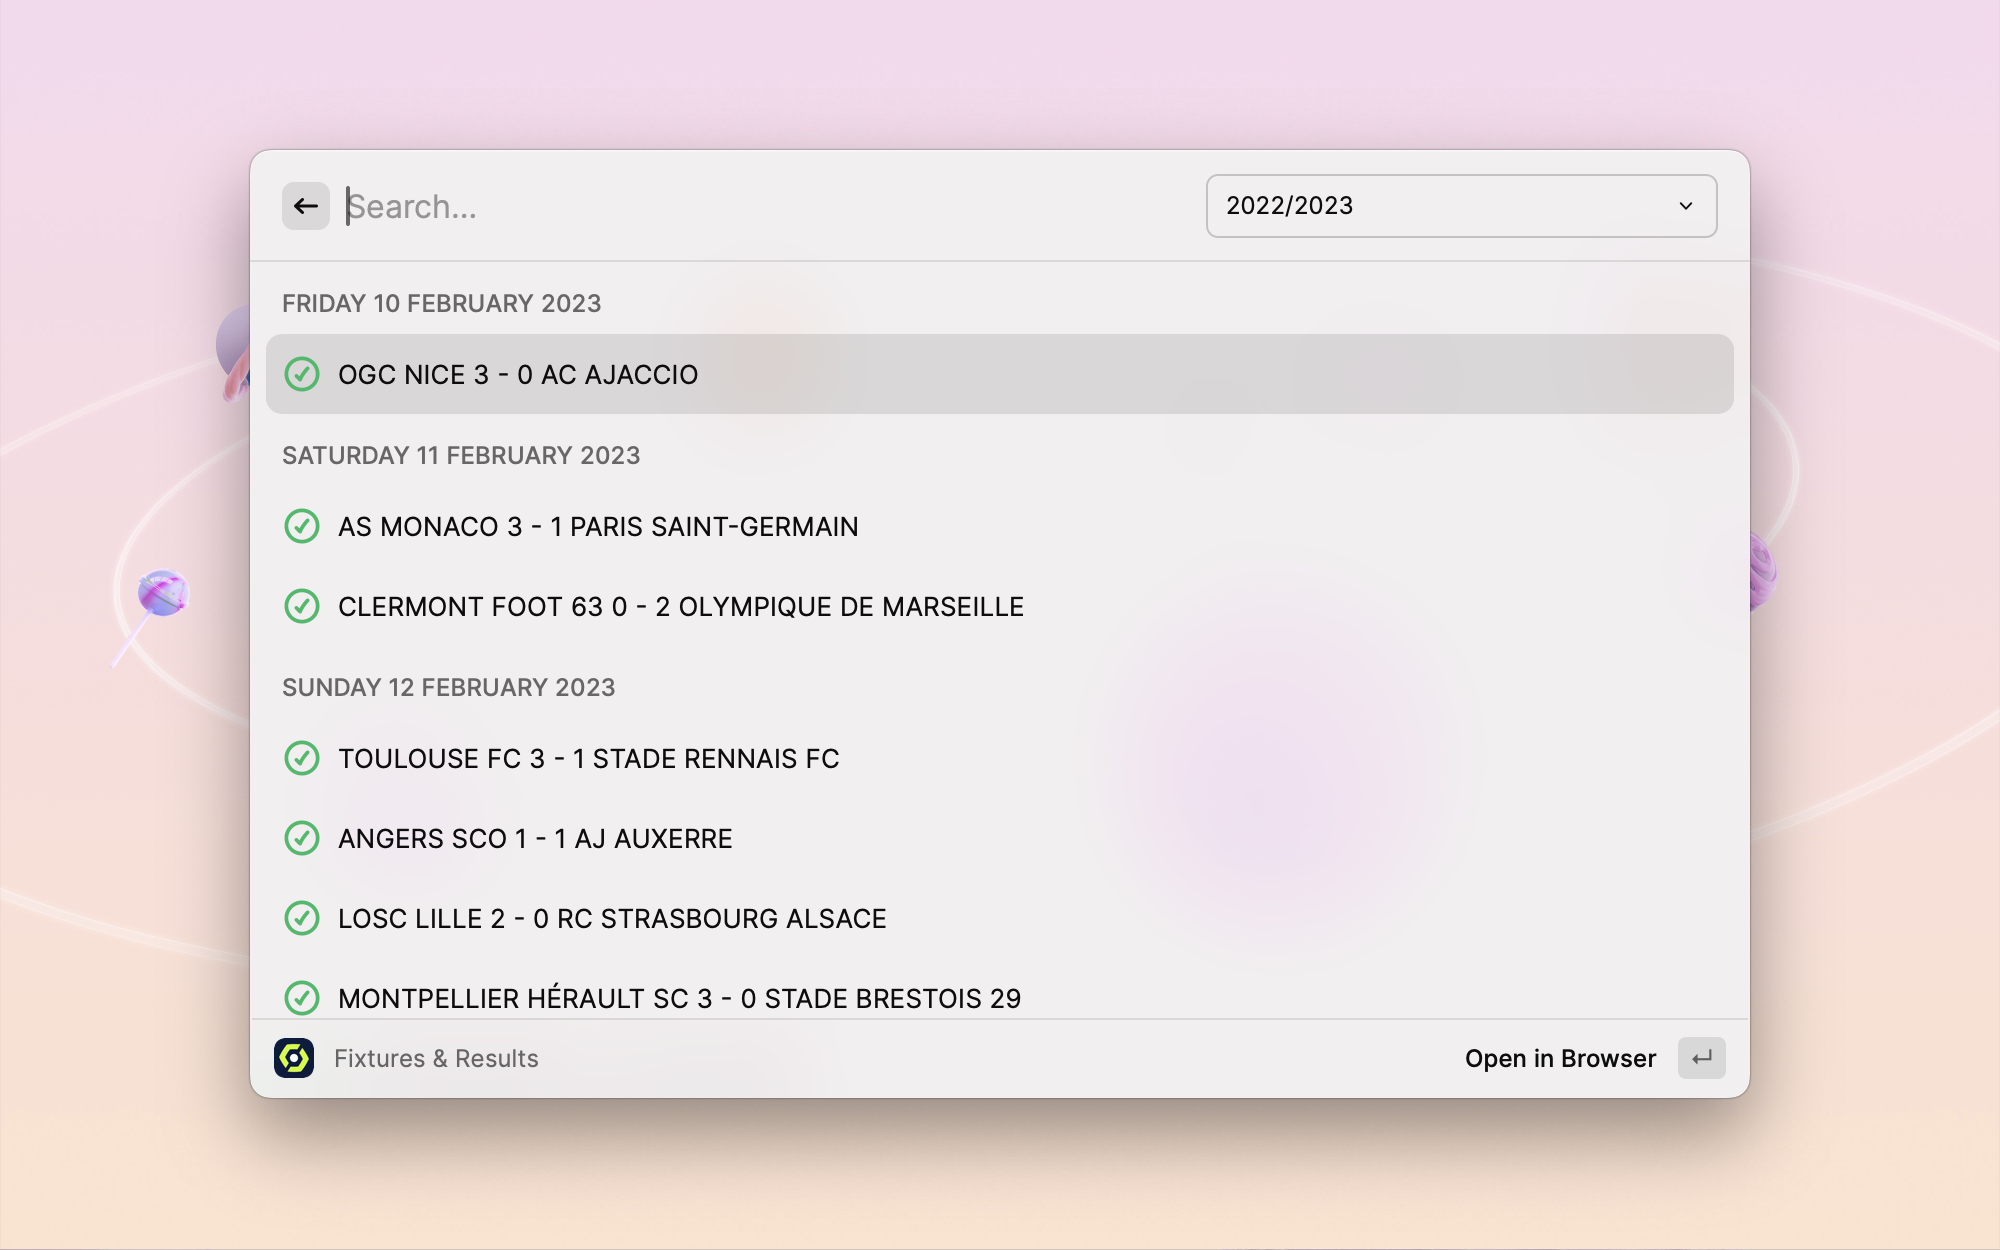
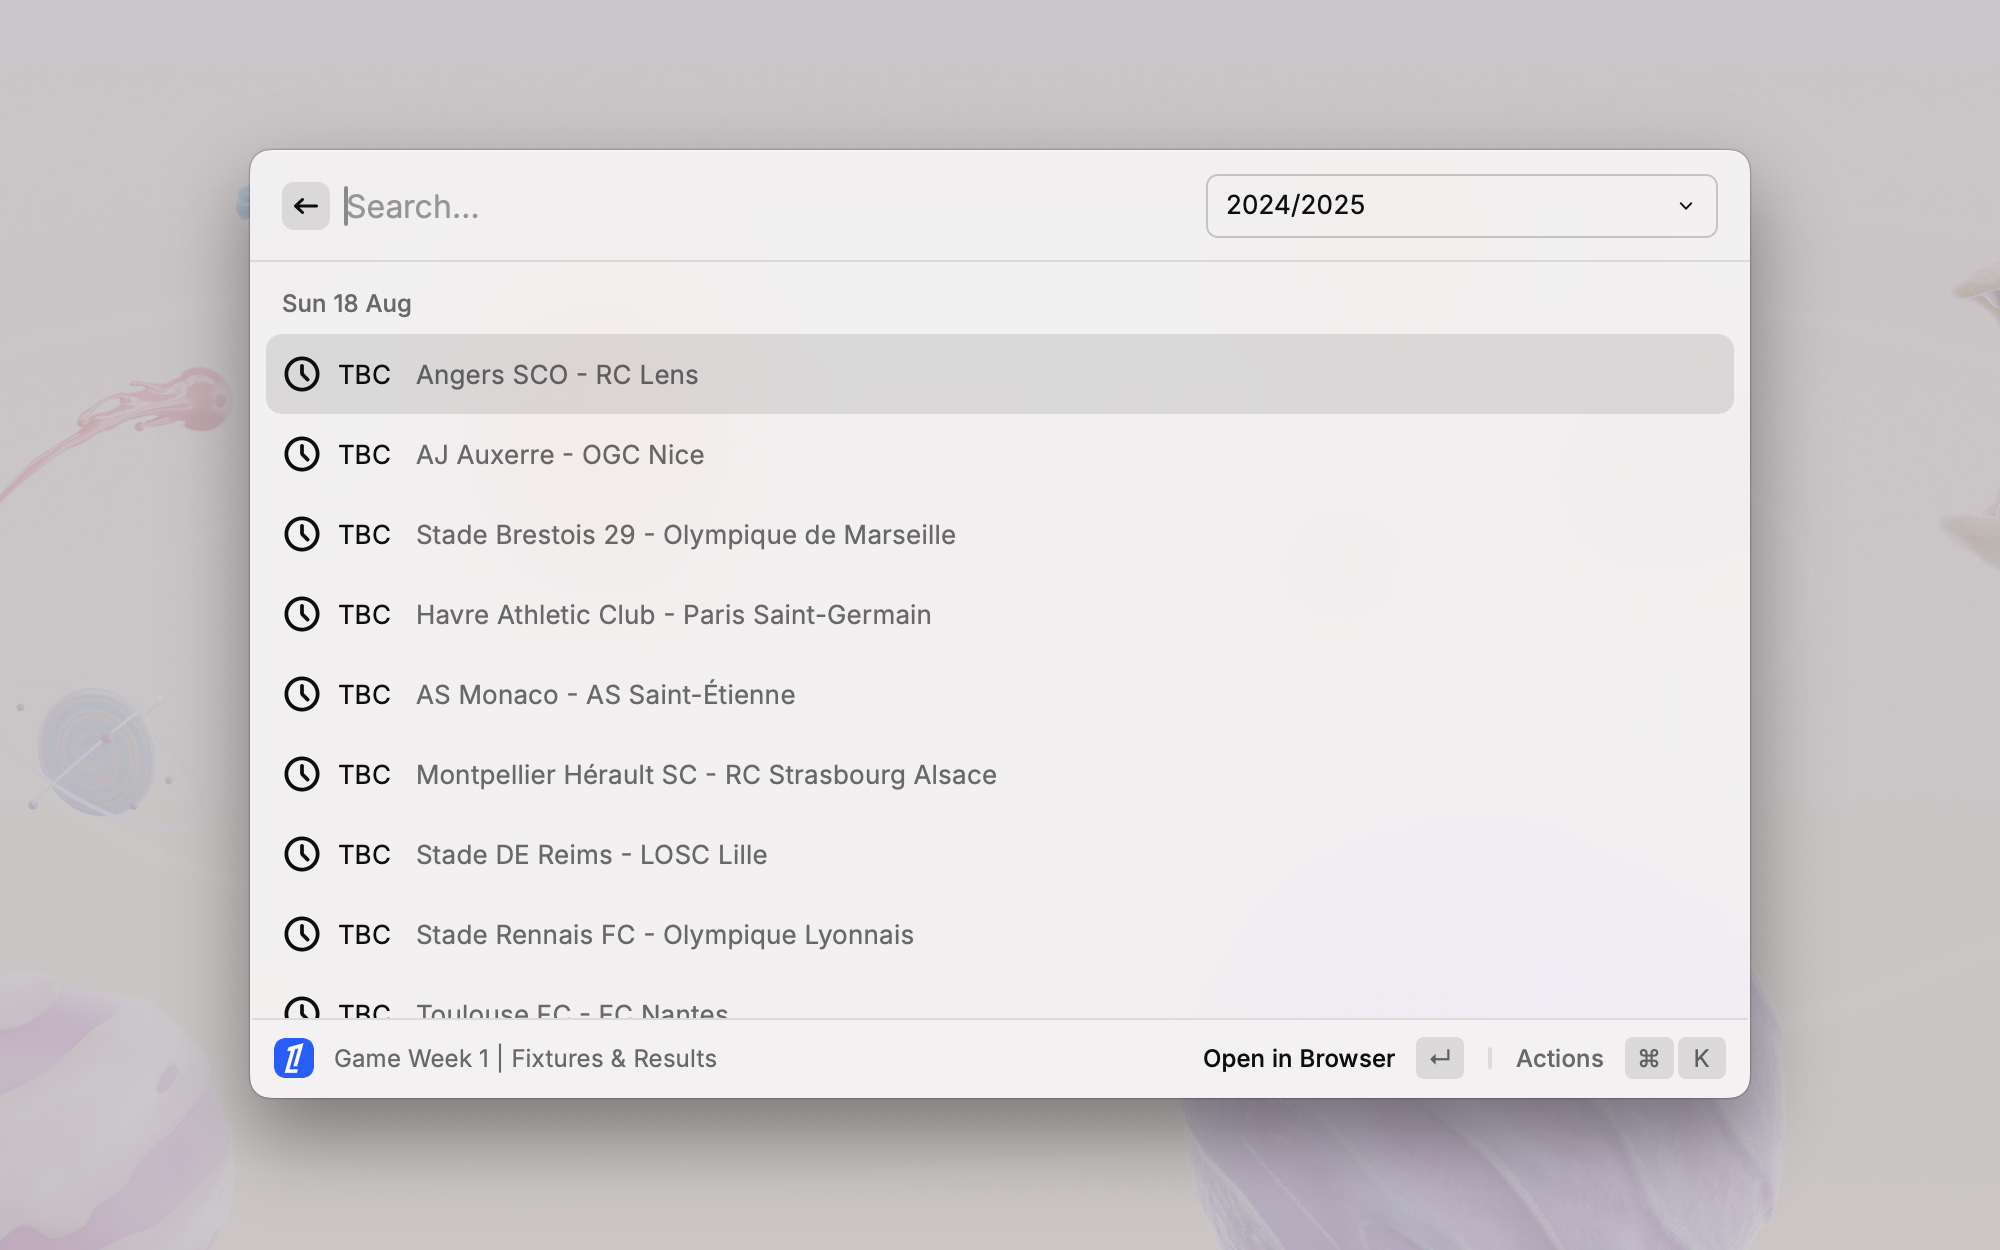
chore: update metadata & changelog

diff --git a/CHANGELOG.md b/CHANGELOG.md
@@ -1,5 +1,9 @@
 # Ligue 1 Changelog
 
+## [Enhancement] - 2024-07-26
+- Enhanced data accuracy and efficiency by transitioning from web scraping to an API-based data acquisition method.
+- Refreshed Ligue 1 branding with updated name and logo.
+
 ## [Enhancement] - 2023-10-11
 
 - Quick fix to make the seasons list built dynamically and includes the current (2023-2024) and future seasons
